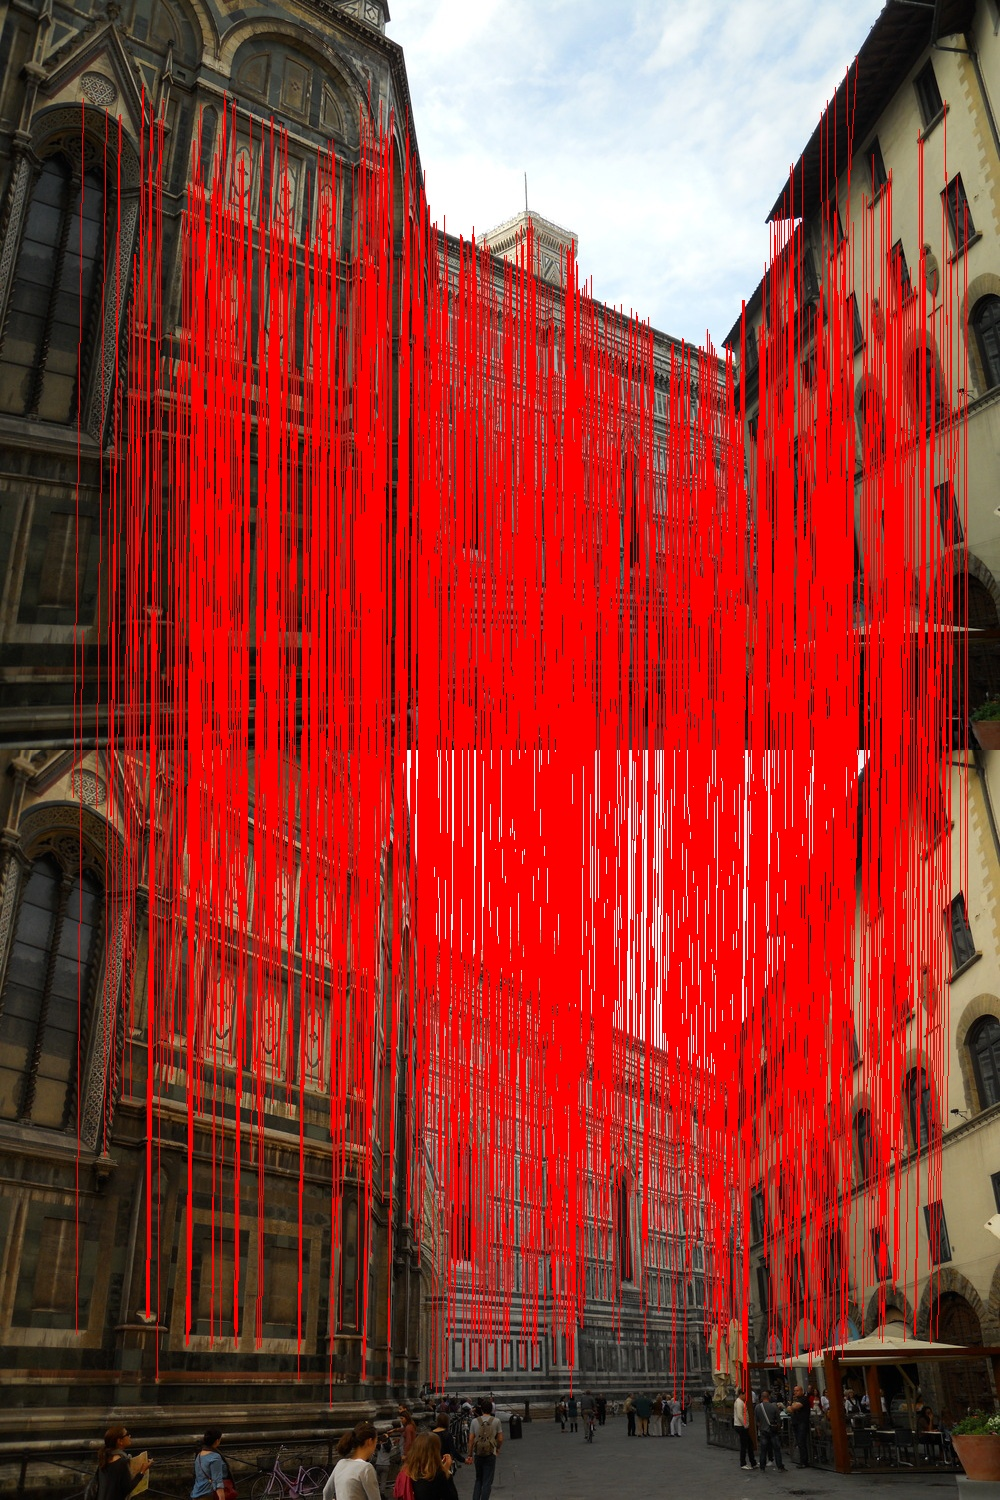
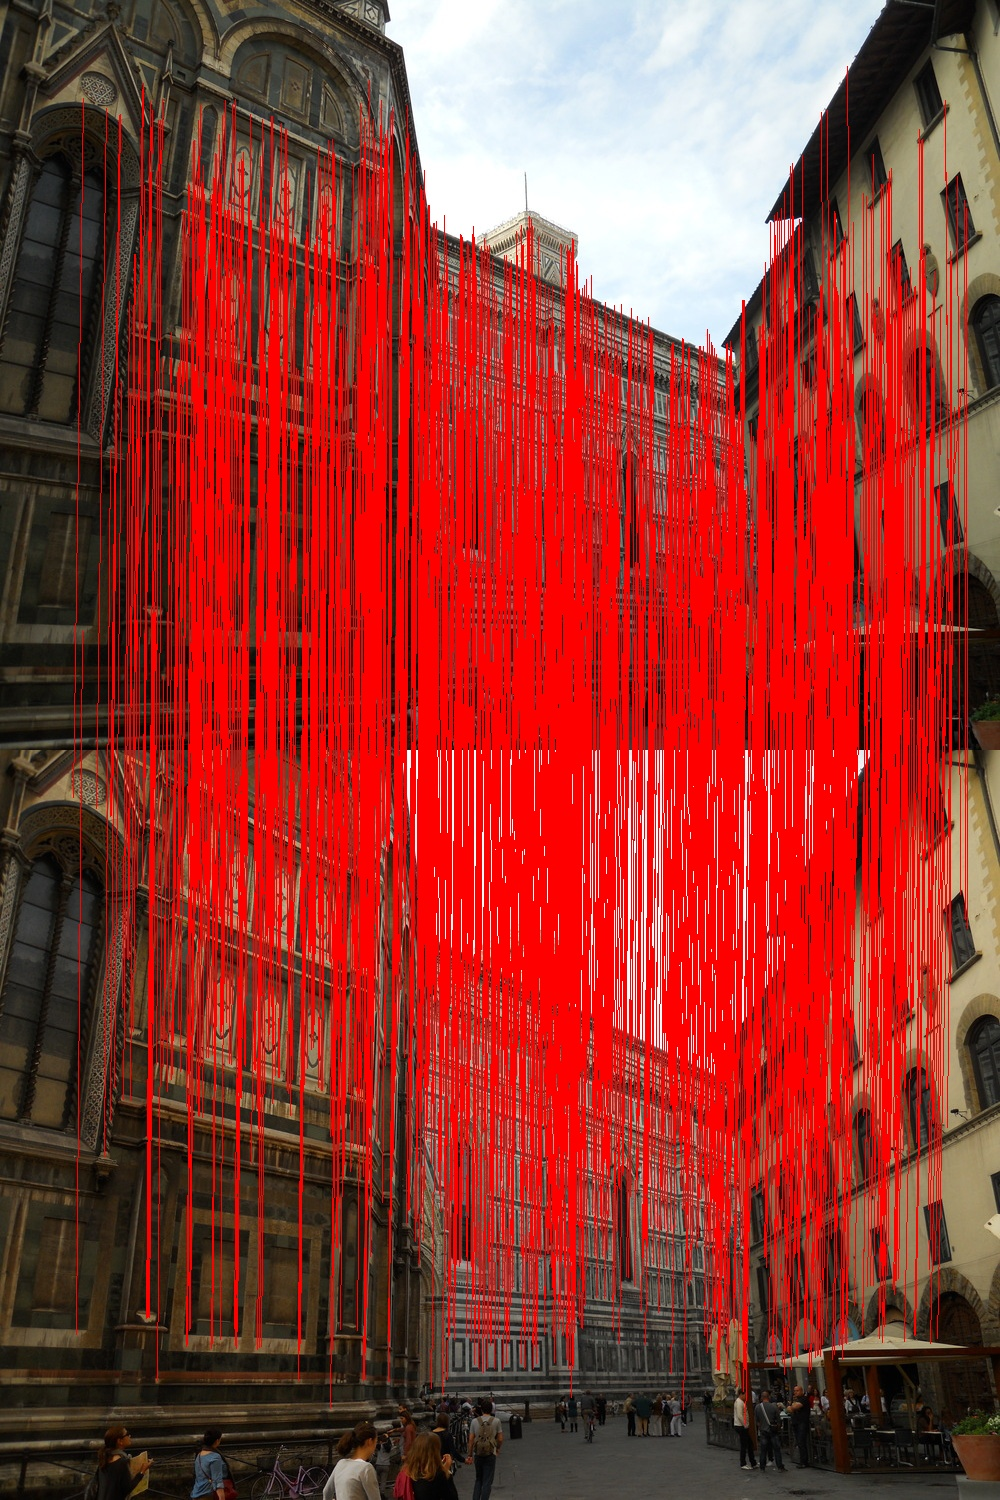
6 warp_and_combine

diff --git a/hw3/task6.py b/hw3/task6.py
@@ -70,8 +70,8 @@ def draw_matches(img1, img2, kp1, kp2, matches):
              the matched keypoints
     Hint: see cv2.line
     '''
-    #Hint:
-    #Use common.get_match_points() to extract keypoint locations
+    # Hint:
+    # Use common.get_match_points() to extract keypoint locations
     match_points = get_match_points(kp1, kp2, matches)
     stacked_img = cv2.vconcat([img1, img2])
     H1, _, _ = img1.shape
@@ -97,40 +97,69 @@ def warp_and_combine(img1, img2, H):
             H: homography mapping betwen them
     Output - V: stitched image of size (?,?,3); unknown since it depends on H
     '''
-    # Get the dimensions of the input images
+    
     h1, w1 = img1.shape[:2]
     h2, w2 = img2.shape[:2]
     
-    # Compute the size of the output image based on the homography
-    corners = np.array([[0     ,      0, 1], 
-                        [0     , h1 - 1, 1], 
-                        [w1 - 1, h1 - 1, 1], 
-                        [w1 - 1, 0     , 1]])
-    corners_warped = np.dot(H, corners.T).T
-    corners_warped /= corners_warped[:, 2:]
-    xmin = int(min(corners_warped[:, 0]))
-    xmax = int(max(corners_warped[:, 0]))
-    ymin = int(min(corners_warped[:, 1]))
-    ymax = int(max(corners_warped[:, 1]))
+    # compute the size of the output image based on the homography
+    corners_img1 = np.array([[0     ,      0, 1], 
+                             [0     , h1 - 1, 1], 
+                             [w1 - 1, h1 - 1, 1], 
+                             [w1 - 1, 0     , 1]])
+    corners_warped_img1 = (np.dot(H, corners_img1.T).T)
+    
+    # normalize
+    corners_warped_img1 /= corners_warped_img1[:, 2:]
+    
+    # find the smallest and largest of x and y, and find the size after the homography
+    xmin = int(min(corners_warped_img1[:, 0]))
+    xmax = int(max(corners_warped_img1[:, 0]))
+    ymin = int(min(corners_warped_img1[:, 1]))
+    ymax = int(max(corners_warped_img1[:, 1]))
     size = (xmax - xmin + 1, ymax - ymin + 1)
     
-    # Compute the translation needed to move the second image to overlap with the first
+    # compute the translation which the second image would have to overlap with
     tx = -xmin
     ty = -ymin
     
-    # Apply the homography and translation to the second image
-    img2_warped = cv2.warpPerspective(img2, np.dot(np.array([[1, 0, tx], [0, 1, ty], [0, 0, 1]]), H), size)
+    # apply the homography and translation to the second image
+    translation_matrix = np.array([[1, 0, tx], 
+                                   [0, 1, ty], 
+                                   [0, 0,  1]])
+    H_translated = np.dot(translation_matrix, H)
+
+    # use cv2.warpPerspective
+    img1_warped_translated = cv2.warpPerspective(img1, H_translated, size)
+    h1_trans, w1_trans = img1_warped_translated.shape[:2]
     
-    # Create an output image of the appropriate size to hold both input images
-    V = np.zeros((max(h1, ymax), w1 + w2, 3), dtype=np.uint8)
+    # create an output image for placing the right and the left
+    combined = np.zeros((max(h1_trans, ty + h2), max(w1_trans, tx+w2), 3), dtype=np.uint8)
     
-    # Copy the first image to the left half of the output image
-    V[:h1, :w1, :] = img1
+    # place img1_tranlated in the left and img2 in the right
     
-    # Copy the warped second image to the right half of the output image
-    V[ty:ty+h2, tx+w1:tx+w1+w2, :] = img2_warped
+    if tx > 0 and ty > 0:
+        im1_x = (0, h1_trans)
+        im1_y = (0, w1_trans)
+        im2_x = (ty, ty + h2)
+        im2_y = (tx, tx + w2)
+        combined[im1_x[0]: im1_x[1], im1_y[0]:im1_y[1], :] = img1_warped_translated
+        combined[im2_x[0]: im2_x[1], im2_y[0]:im2_y[1], :] = img2
+        # combined[   : h1_trans,   :w1_trans, :] = img1_warped_translated
+        # combined[ ty:  ty + h2, tx:   tx+w2, :] = img2
+        
+    if tx < 0:
+        combined = np.zeros((max(h1_trans, ty + h2), max(w1_trans-tx, tx+w2-tx), 3), dtype=np.uint8)
+        combined[   : h1_trans,   -tx:w1_trans-tx, :] = img1_warped_translated
+        combined[ ty:  ty + h2, tx-tx:   tx+w2-tx, :] = img2
     
-    return V
+    if ty < 0:
+        combined = np.zeros((max(h1_trans-ty, ty + h2-ty), max(w1_trans, tx+w2), 3), dtype=np.uint8)
+        combined[   -ty: h1_trans-ty,   :w1_trans, :] = img1_warped_translated
+        combined[ ty-ty:  ty + h2-ty, tx:   tx+w2, :] = img2
+        
+        
+    
+    return combined
 
 
 def make_warped(img1, img2):
@@ -161,7 +190,7 @@ if __name__ == "__main__":
     if not os.path.exists("./result/task6"):
         os.makedirs("./result/task6")
             
-    for case_name in cases1:
+    for case_name in cases:
         p1 = read_img(os.path.join("task6", case_name, "p1.jpg"))
         p2 = read_img(os.path.join("task6", case_name, "p2.jpg"))
         
@@ -170,17 +199,21 @@ if __name__ == "__main__":
         kps2, desc2 = get_AKAZE(p2)
         
         # 3. calculate the distance, find matches, draw the lines, and save img
-        ratio = 0.7
+        ratio = 0.6
         matches = find_matches(desc1, desc2, ratio)
         res = draw_matches(p1, p2, kps1, kps2, matches)
         save_img(res, "result/task6/task6_result_" + case_name + ".jpg")
         
-        
+        point_case_6 = np.load("./task4/points_case_6.npy")
         XY = get_match_points(kps1, kps2, matches)
         H = fit_homography(XY)
         bestH = RANSAC_fit_homography(XY)
-        print("H", H)
-        print("bestH: ", bestH)
+        # print("H", H)
+        # print("bestH: ", bestH)
+        print(case_name)
+        combined_img = warp_and_combine(p1, p2, bestH)
+        save_img(combined_img, "task6_"+case_name+"_combined.jpg")
+        
         
         # ans = warp_and_combine(p1, p2, H)
     # #Possible starter code; you might want to loop over the task 6 images

diff --git a/hw3/task6_.py b/hw3/task6_.py
@@ -3,8 +3,8 @@ Task6 Code
 """
 import numpy as np
 import common 
-from common import save_img, read_img, get_match_points
-from homography_ import fit_homography, homography_transform, RANSAC_fit_homography
+from common import save_img, read_img
+from homography import fit_homography, homography_transform, RANSAC_fit_homography
 import os
 import cv2
 
@@ -90,6 +90,7 @@ def draw_matches(img1, img2, kp1, kp2, matches):
         end = (x2, y2 + h1)
         color = (0, 0, 255)
         thickness = 2
+        print(start, end)
         stacked = cv2.line(stacked, start, end, color, thickness)
     # save_img(stacked,"stacked.jpg")
     output = stacked
@@ -126,6 +127,7 @@ def warp_and_combine(img1, img2, H):
     height = int(max_x - min_x)
     width = int(max_y - min_y)
     warped_img2 = cv2.warpPerspective(img2, H, (width, height))
+    save_img(warped_img2, "task6_warped_img2.jpg")
 
     # save_img(warped_img2,"warpedim2.jpg")
     # merged = np.zeros((width, height, 3), dtype = np.uint8)
@@ -138,6 +140,7 @@ def warp_and_combine(img1, img2, H):
     merged[mask1] = warped_img2[mask1] / 2 + merged[mask1] / 2
     mask2 = np.logical_and(merged == 0, warped_img2 > 0)
     merged[mask2] = warped_img2[mask2]
+    save_img(merged, "task6_merged.jpg")
         
     return merged
 
@@ -184,10 +187,10 @@ def make_warped(img1, img2):
 
 
 if __name__ == "__main__":
-    case = 1
+    case = 2
     #Possible starter code; you might want to loop over the task 6 images
     to_stitch = ['eynsham', 'florence2', 'florence3', 'florence3_alt', 'lowetag', 'mertonchapel', 'mertoncourtyard', 'vgg']
-    to_switch = ['eynsham']
+    to_stitch = ['eynsham']
     if(case == 1):
         for i in range(len(to_stitch)):
             folder = to_stitch[i]
@@ -197,9 +200,8 @@ if __name__ == "__main__":
             keypoints2, descriptors2 = common.get_AKAZE(I2)
             matches = find_matches(descriptors1, descriptors2, 0.3)
             res = draw_matches(I1, I2, keypoints1, keypoints2, matches)
-            
     elif(case == 2):
-        folder = to_stitch[5]
+        folder = to_stitch[0]
         I1 = read_img(os.path.join('task6',folder,'p1.jpg'))
         I2 = read_img(os.path.join('task6',folder,'p2.jpg'))
         make_warped(I1, I2)

diff --git a/hw3/homography.py b/hw3/homography.py
@@ -5,6 +5,7 @@ You should write these
 import numpy as np
 import matplotlib.pyplot as plt
 from common import homography_transform
+import time
 
 def fit_homography(XY):
     '''
@@ -69,10 +70,8 @@ def RANSAC_fit_homography(XY, eps=1, nIters=1000):
     
     for i in range(nIters):
         # find four random points of XY
-        XY = XY.astype(int)
-        sample_points = XY.shape[0]
+        sample_points = len(XY)
         sample = XY[np.random.choice(sample_points, 4, replace=False), :] # replace - can only be select one time
-        # print("sample", sample)
         
         # calculate the homography matrix, and transform the H
         H = fit_homography(sample)
@@ -85,21 +84,24 @@ def RANSAC_fit_homography(XY, eps=1, nIters=1000):
         
         # find the inliners and update the best one
         inliners = dist < eps
-        if(np.sum(inliners) > bestCount):
-            bestH = fit_homography(XY[inliners])
-            bestCount = np.sum(inliners)
+        cur_count = np.sum(inliners)
+        if(cur_count > bestCount):
+            # bestH = fit_homography(XY[inliners])
+            bestCount = cur_count
             bestInliers = inliners  
-        bestRefit = fit_homography(XY[bestInliers])
+            bestRefit = fit_homography(XY[bestInliers])
 
-        return bestRefit
+    return bestRefit
 
 if __name__ == "__main__":
     #If you want to test your homography, you may want write any code here, safely
     #enclosed by a if __name__ == "__main__": . This will ensure that if you import
     #the code, you don't run your test code too
-    point_case_5 = np.load("./task4/points_case_5.npy")
-    H = fit_homography(point_case_5)
-    best_H = RANSAC_fit_homography(point_case_5)
-    print(H)
-    print(best_H)
+    
+    # # test the case that the H is silimar to best_H
+    # point_case_7 = np.load("./task4/points_case_7.npy")
+    # H = fit_homography(point_case_7)
+    # best_H = RANSAC_fit_homography(point_case_7)
+    # print(H)
+    # print(best_H)
     pass

diff --git a/hw3/homography_.py b/hw3/homography_.py
@@ -79,7 +79,6 @@ def RANSAC_fit_homography(XY, eps=1, nIters=1000):
         diff = target - transform
         error = np.linalg.norm(diff, axis = 0)
         inliers = error < eps
-        print(inliers)
         count = np.sum(inliers)
         if(count > bestCount):
             bestCount = count
@@ -104,7 +103,7 @@ if __name__ == "__main__":
     
     plt.scatter(case[:, 0], case[:, 1], label = 'orginal')
     plt.scatter(case[:, 2], case[:, 3], label = 'target')
-    # print(transform)
+    print(transform)
     plt.scatter(transform[0, :] / transform[2, :], transform[1, :] / transform[2, :], label = 'transform')
 #     plt.scatter(transform[0, :], transform[1, :], label = 'transform')
     plt.legend()
